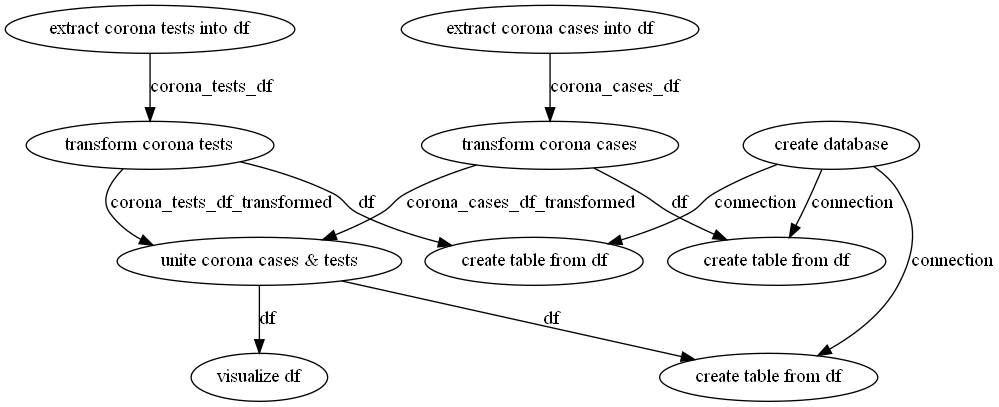
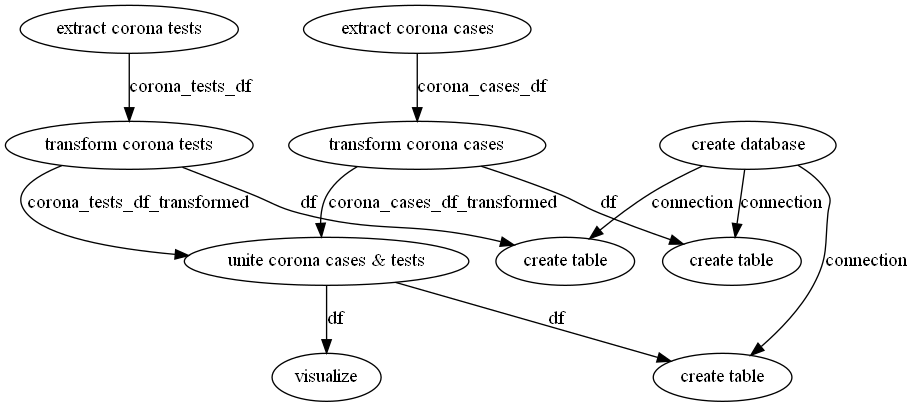
some refactoring

diff --git a/main.py b/main.py
@@ -26,13 +26,13 @@ class StringConverter(dict):
         return str
 
 
-@task(name='extract corona cases into df')
+@task(name='extract corona cases')
 def extract_corona_cases() -> pd.DataFrame:
     corona_cases_df = pd.read_csv(CORONA_CASES_PATH, sep=';', converters=StringConverter())
     return corona_cases_df
 
 
-@task(name='extract corona tests into df')
+@task(name='extract corona tests')
 def extract_corona_tests() -> pd.DataFrame:
     corona_tests_df = pd.read_csv(CORONA_TESTS_PATH, sep=';', converters=StringConverter(), usecols=['Kalenderwoche', 'Anzahl Testungen'])
     return corona_tests_df[:-1]  # we dont need the last summary line
@@ -81,13 +81,13 @@ def create_database(database_name: str) -> sqlite3.Connection:
     return conn
 
 
-@task(name='create table from df')
+@task(name='create table')
 def create_table_from_df(df: pd.DataFrame, df_name: str, connection: sqlite3.Connection):
     connection.execute('DROP table IF EXISTS {}'.format(df_name))
     df.to_sql(name=df_name, con=connection)
 
 
-@task(name='visualize df')
+@task(name='visualize')
 def visualize_df(df: pd.DataFrame,
                         df_name: str,
                         x_axis: str,
@@ -111,7 +111,7 @@ with Flow('Corona cases in relation with tests flow') as flow:
     create_table_from_df(corona_tests_df_transformed, 'corona_tests', connection)
     create_table_from_df(unite_corona_cases_and_tests_df, 'unite_corona_cases_and_tests', connection)
 
-    visualize_df(unite_corona_cases_and_tests_df, 'unite_corona_cases_and_tests',
+    visualize_df(unite_corona_cases_and_tests_df, 'Corona cases with relation to tests',
                         x_axis='Kalenderwoche',
                         y_axis=["Gemeldete Infektionen", "Hospitalisierte Fälle", "Todesfälle", "Anzahl Testungen"]
                         )
